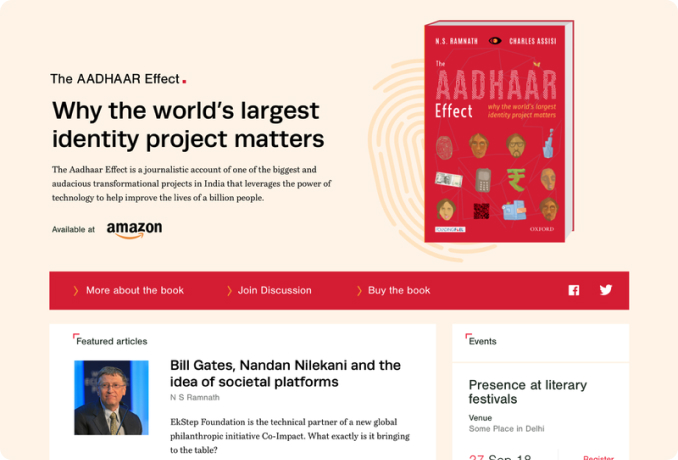
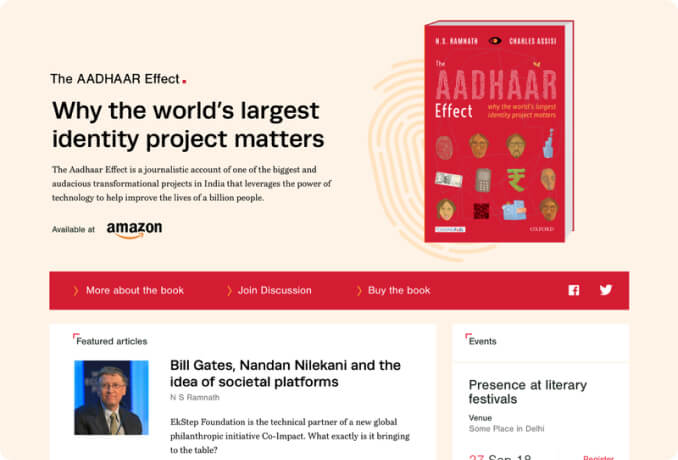
CHANGED

diff --git a/css/main.css b/css/main.css
@@ -819,7 +819,7 @@ button {
   line-height: 1.5;
   color: #8695a4;
   margin-left: 2.6rem;
-  font-weight: 700;
+  font-weight: 400;
 }
 
 @media screen and (max-width: 360px) {

diff --git a/scss/pages/_home.scss b/scss/pages/_home.scss
@@ -282,7 +282,7 @@
     line-height: 1.5;
     color: #8695a4;
     margin-left: 2.6rem;
-    font-weight: 700;
+    font-weight: 400;
   }
   margin-bottom: 3.2rem;
 }
